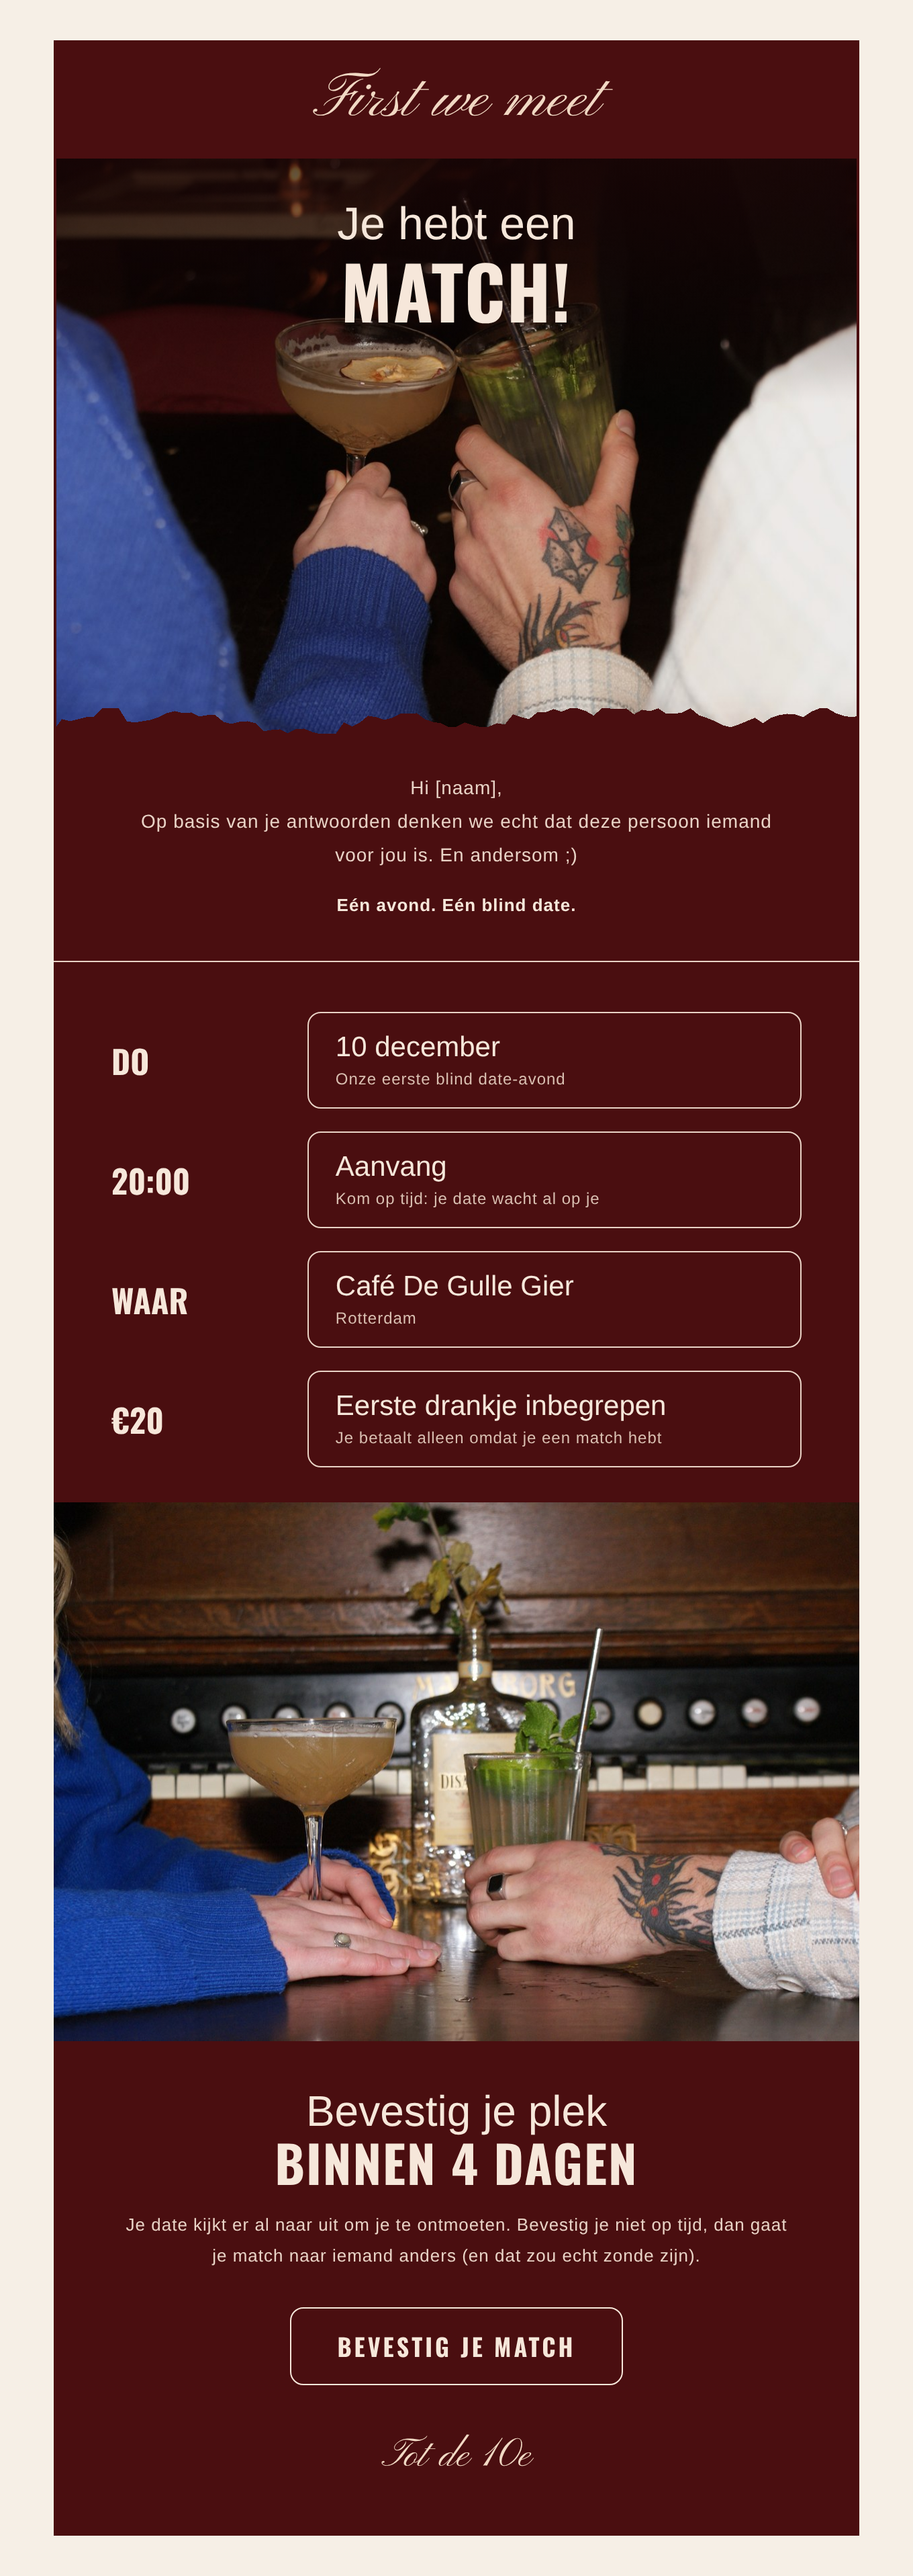
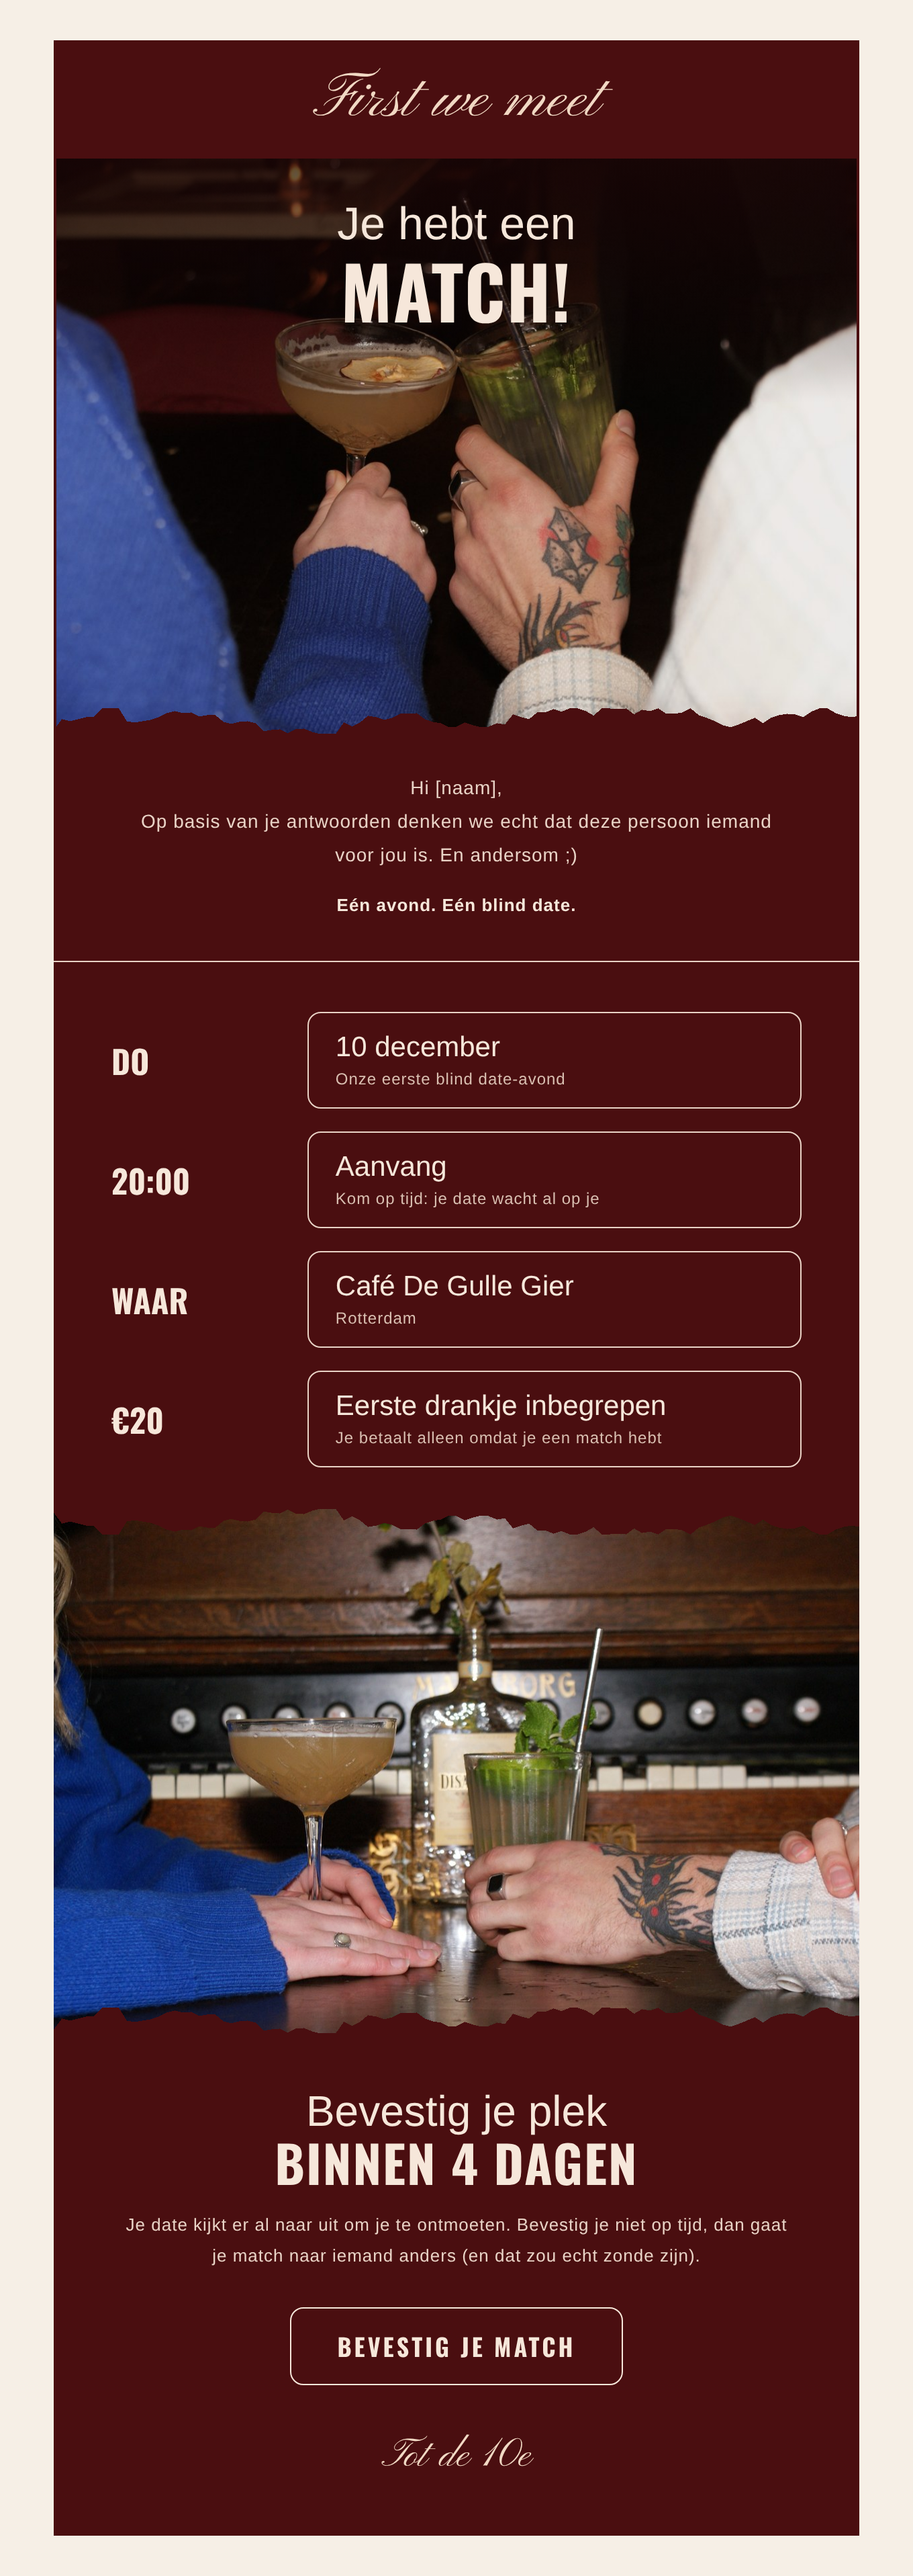
Match email: torn edges on the piano photo too
Claude-Session: https://claude.ai/code/session_015pbpmfourf5XfLzACnZpS7

diff --git a/marketing/mails/match-bordeaux/match-mail.html b/marketing/mails/match-bordeaux/match-mail.html
@@ -19,7 +19,9 @@
  <table width="100%" role="presentation">
  <tr><td width="28%" style="font-family:Oswald,'Arial Narrow',Arial,sans-serif;font-weight:700;font-size:24px;color:#f6e7da;padding-bottom:14px;">DO</td><td style="padding-bottom:14px;"><div style="border:1.5px solid #e9d3c6;border-radius:10px;padding:14px 20px;"><div style="font-family:Helvetica,Arial,sans-serif;font-size:21px;color:#f6e7da;">10 december</div><div style="font-family:Helvetica,Arial,sans-serif;font-size:12px;letter-spacing:.5px;color:#d9bfb1;margin-top:4px;">Onze eerste blind date-avond</div></div></td></tr><tr><td width="28%" style="font-family:Oswald,'Arial Narrow',Arial,sans-serif;font-weight:700;font-size:24px;color:#f6e7da;padding-bottom:14px;">20:00</td><td style="padding-bottom:14px;"><div style="border:1.5px solid #e9d3c6;border-radius:10px;padding:14px 20px;"><div style="font-family:Helvetica,Arial,sans-serif;font-size:21px;color:#f6e7da;">Aanvang</div><div style="font-family:Helvetica,Arial,sans-serif;font-size:12px;letter-spacing:.5px;color:#d9bfb1;margin-top:4px;">Kom op tijd: je date wacht al op je</div></div></td></tr><tr><td width="28%" style="font-family:Oswald,'Arial Narrow',Arial,sans-serif;font-weight:700;font-size:24px;color:#f6e7da;padding-bottom:14px;">WAAR</td><td style="padding-bottom:14px;"><div style="border:1.5px solid #e9d3c6;border-radius:10px;padding:14px 20px;"><div style="font-family:Helvetica,Arial,sans-serif;font-size:21px;color:#f6e7da;">Café De Gulle Gier</div><div style="font-family:Helvetica,Arial,sans-serif;font-size:12px;letter-spacing:.5px;color:#d9bfb1;margin-top:4px;">Rotterdam</div></div></td></tr><tr><td width="28%" style="font-family:Oswald,'Arial Narrow',Arial,sans-serif;font-weight:700;font-size:24px;color:#f6e7da;padding-bottom:14px;">€20</td><td style="padding-bottom:14px;"><div style="border:1.5px solid #e9d3c6;border-radius:10px;padding:14px 20px;"><div style="font-family:Helvetica,Arial,sans-serif;font-size:21px;color:#f6e7da;">Eerste drankje inbegrepen</div><div style="font-family:Helvetica,Arial,sans-serif;font-size:12px;letter-spacing:.5px;color:#d9bfb1;margin-top:4px;">Je betaalt alleen omdat je een match hebt</div></div></td></tr>
  </table></td></tr>
-<tr><td style="background:#4a0e10;padding:0;"><img src="piano.jpg" width="600" alt="Twee cocktails op de piano" style="display:block;width:100%;"></td></tr>
+<tr><td style="background:#4a0e10;padding:0;"><img src="piano.jpg" width="600" alt="Twee cocktails op de piano" style="display:block;width:100%;">
+ <img src="torn-top.png" width="600" alt="" style="display:block;width:100%;margin-top:-402px;position:relative;">
+ <img src="torn.png" width="600" alt="" style="display:block;width:100%;margin-top:342px;position:relative;"></td></tr>
 <tr><td style="background:#4a0e10;padding:34px 50px 40px;text-align:center;">
  <div style="font-family:Helvetica,Arial,sans-serif;font-size:32px;color:#f6e7da;">Bevestig je plek</div>
  <div style="font-family:Oswald,'Arial Narrow',Arial,sans-serif;font-weight:700;font-size:38px;letter-spacing:1px;color:#f6e7da;line-height:1.05;">BINNEN 4 DAGEN</div>
